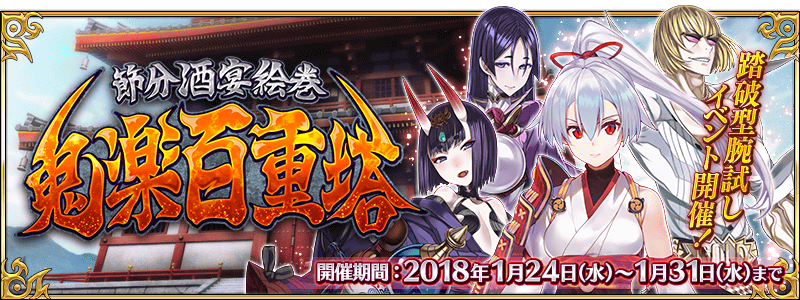
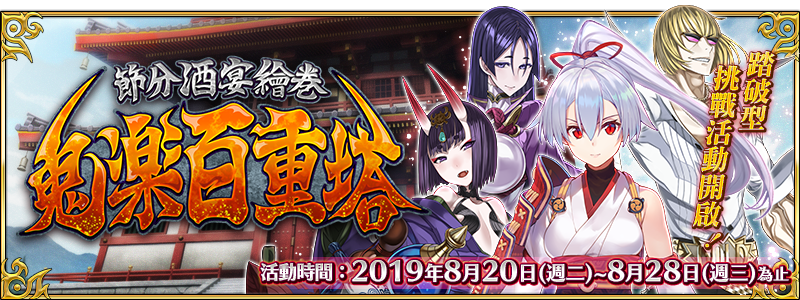
80088_TW

diff --git a/event_80254.html b/event_80254.html
@@ -202,7 +202,7 @@ span.oftxt {
 <tr><td>No.17　???</td><td><div class="itemST" style="background-image: url('common/images/icon/items/7.png')" title="魔力稜鏡">200</div></td><td>8/26 17:00後</td></tr>
 <tr><td>No.18　???</td><td><div class="itemST" style="background-image: url('common/images/icon/items/6540.png')" title="九十九鏡">5</div></td><td>8/26 17:00後</td></tr>
 <tr><td>No.19　???</td><td><div class="itemST" style="background-image: url('common/images/icon/items/5000.png')" title="Quick紋章開啟器"></div></td><td>8/26 17:00後</td></tr>
-<tr><td>No.20　???</td><td><a href="ccData.html?no=46"><div class="itemST" style="background-image: url('common/images/icon/CommandCodes/c_8400460.png')" title="花の魔術師"></a></div></td><td>達成：No.19<br>8/26 17:00後</td></tr>
+<tr><td>No.20　???</td><td><a href="ccData.html?no=46"><div class="itemST" style="background-image: url('common/images/icon/CommandCodes/c_8400460.png')" title="花の魔術師"></a></div></td><td>8/26 17:00後</br>達成：No.19<br></td></tr>
 <tr><td>No.21　擊倒20名『初學者狩獵』或『魚狩獵』</td><td><div class="itemST" style="background-image: url('common/images/icon/items/6527.png')" title="萬死的毒針">5</div></td><td>達成：No.1<br></td></tr>
 <tr><td>No.22　擊倒40名『初學者狩獵』或『魚狩獵』</td><td><div class="itemST" style="background-image: url('common/images/icon/items/6511.png')" title="禁斷書頁">5</div></td><td><span class="oftxt" title="通過：第一賭場 「ＨＩＭＥＪＩサバイバルカジノ」">通過：第一賭場 「ＨＩＭＥＪＩサバイバルカジノ」</span><br></td></tr>
 <tr><td>No.23　擊倒20名『骨』系的敵人</td><td><div class="itemST" style="background-image: url('common/images/icon/items/6512.png')" title="龍之牙">5</div></td><td>達成：No.1<br></td></tr>

diff --git a/index.html b/index.html
@@ -104,12 +104,12 @@ $(function(){
 </script>
 </div>
 <dl class="accordion"><dt class="act">
-<h1 class="headline4"><dl><dt class="date">★☆★</dt><dd>繁中(復刻贗作)/簡中(復刻第二年泳裝)活動資訊頁面<span class="arrowAC">&nbsp;</span></dd></dl></h1>
+<h1 class="headline4"><dl><dt class="date">★☆★</dt><dd>繁中(百重塔)/簡中(復刻第二年泳裝)活動資訊頁面<span class="arrowAC">&nbsp;</span></dd></dl></h1>
 </dt><dd class="acd"><p>
 <div class="sidebar" style="background-image:url(common/images/sidebar00.png);float:right;margin-top:0px;margin-right:40px;">活動資訊</div><br>測試頁面，不保證其後之維護<br>
 可在過去活動翻譯公告的活動概要區找到右側圖示連結到已建立的活動資訊頁面<br>
 <table class="table_non" style="width:100%;"><tbody><tr><td style="width:50%; vertical-align:top;">
-<a href="event_80087.html"><img src="common/images/event/80087/top_banner.png" width=400 /></a>
+<a href="event_80088.html"><img src="common/images/event/80088/top_banner.png" width=400 /></a>
 </td><td style="width:50%; vertical-align:top;">
 <a href="event_80108.html"><img src="common/images/event/80108/top_banner.png" width=400 /></a>
 <a href="event_80109.html"><img src="common/images/event/80109/top_banner.png" width=400 /></a>
